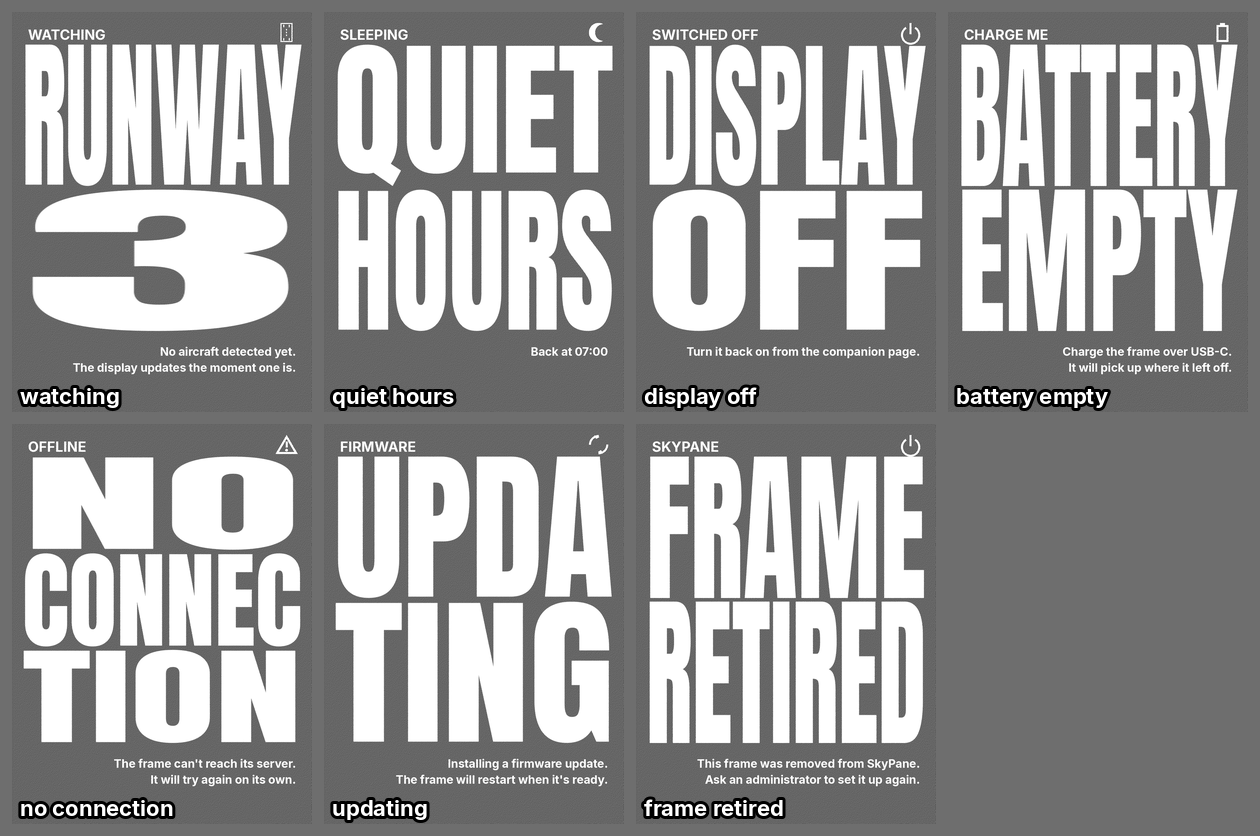
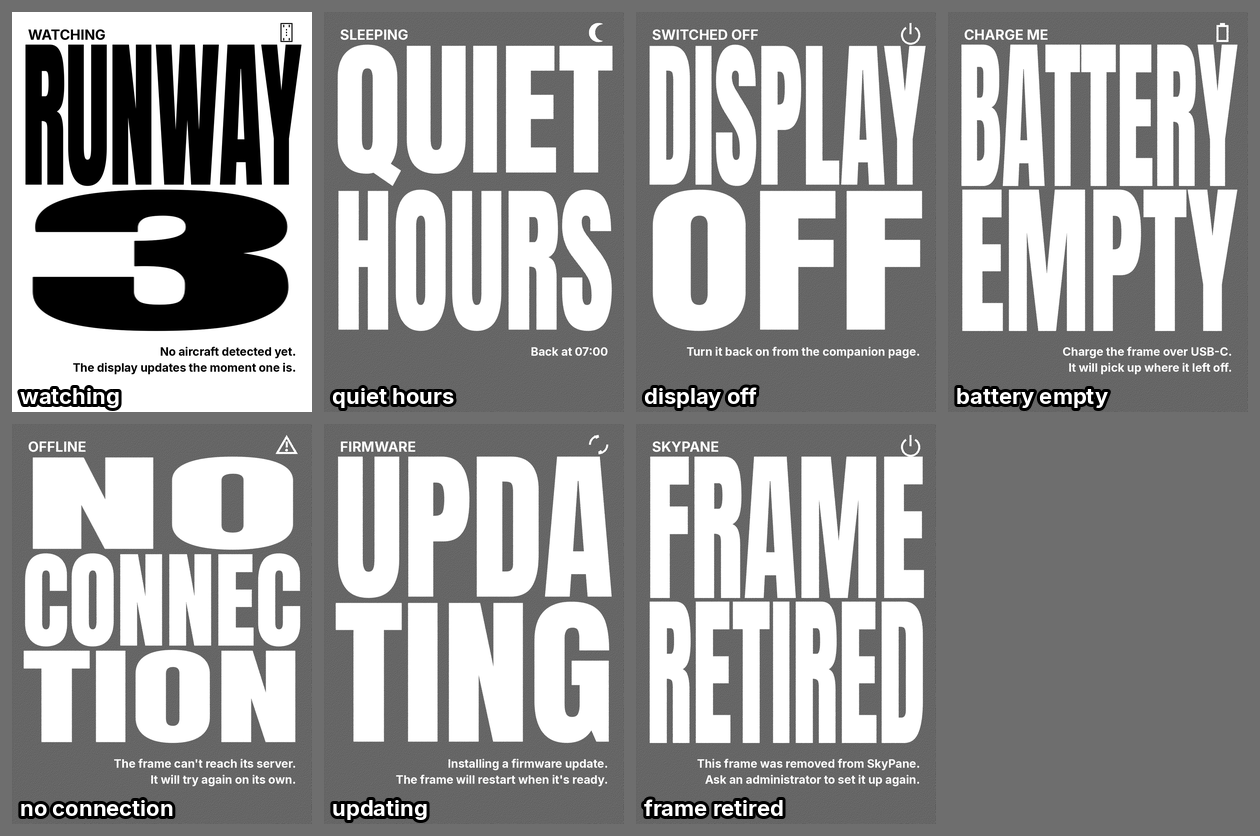
Mock-up: watching screen back to white, other status screens unchanged
Claude-Session: https://claude.ai/code/session_019w4bpjg26CtsBp1Ywmgh2a

Changed region(s): [[0.0, 0.0, 0.2476, 0.4976]]

diff --git a/design-exploration/plane-screen/mock_states.py b/design-exploration/plane-screen/mock_states.py
@@ -20,9 +20,9 @@ W, H = g.W, g.H
 WHITE = (255, 255, 255)
 
 # (key, lettering lines, small label, body lines, icon drawer)
-# Generic screens: they do not follow the theme and share one look: the
-# dimmed (dithered dark) field with white ink, as the non-watching screens
-# are today.
+# Generic screens: they do not follow the theme. As today, the watching screen
+# is white with black ink (the frame is working) and the others use the dimmed
+# (dithered dark) field with white ink (the frame is resting).
 STATES = [
     ("watching", ["RUNWAY", "3"], "WATCHING", ["No aircraft detected yet.", "The display updates the moment one is."], glyphs.draw_runway_icon),
     ("quiet hours", ["QUIET", "HOURS"], "SLEEPING", ["Back at 07:00"], glyphs.draw_moon_icon),
@@ -42,9 +42,9 @@ def icon_mask(drawer):
     return img.convert("L")
 
 
-def render(lines, label, body, drawer):
-    c = t.field(pf.IDX_BLACK, True).copy()
-    ink = WHITE
+def render(lines, label, body, drawer, watching=False):
+    c = Image.new("RGB", (W, H), WHITE) if watching else t.field(pf.IDX_BLACK, True).copy()
+    ink = (0, 0, 0) if watching else WHITE
     g.giant_text(c, lines, (40, 130, W - 40, 1290), ink, heavy=1)
     dr = ImageDraw.Draw(c)
     dr.text((64, 56), label, font=ImageFont.truetype(g.FONT, 56), fill=ink)
@@ -65,7 +65,7 @@ def main(out_dir, font_dir):
     label_font = ImageFont.truetype("server/assets/fonts/Inter-Bold.ttf", 22)
     sheet = Image.new("RGB", (4 * (tw + 12) + 12, 2 * (th + 12) + 12), (110, 110, 110))
     for i, (key, lines, label, body, drawer) in enumerate(STATES):
-        c = render(lines, label, body, drawer)
+        c = render(lines, label, body, drawer, watching=(key == "watching"))
         c.save(os.path.join(out_dir, "state-%s.png" % key.replace(" ", "_")))
         thumb = c.resize((tw, th), Image.LANCZOS)
         ImageDraw.Draw(thumb).text((8, th - 30), key, font=label_font, fill=(255, 255, 255), stroke_width=3, stroke_fill=(0, 0, 0))

diff --git a/.planning/notes/plane-screen-design-brief.md b/.planning/notes/plane-screen-design-brief.md
@@ -116,16 +116,15 @@ connection, updating, pairing, retired; `status-screens-current.png`) are all a
 tiny icon plus a small label and are unreadable from 3 m. Decided: every one
 except pairing (its code is typed from close up) gets the giant lettering, in
 Anton, with a short keyword split over lines (`status-screens-new.png`). These
-screens are generic: no diagonal band, no theme colours. All of them, watching
-included, share one look: the dithered dark field with white ink (today the
-watching screen is white, "the frame is working, not resting"; the reviewer
-preferred one consistent look). The small production icons stay, at the top
-right, and the watching screen shows the runway number as the giant text
-("RUNWAY / 3") with "WATCHING" as the small label.
-No connection and updating are drawn by the firmware from a mask generated by
-`_build_no_connection_canvas()` / `_build_updating_canvas()`; the masks and the
-firmware headers would have to be regenerated, and the lettering must stay
-exactly two colours. OVERHEAD, NEARBY and SET A LOCATION are tags on the flight
+screens are generic: no diagonal band, no theme colours, same colours as today
+(white field with black ink for watching, "the frame is working"; dithered dark
+field with white ink for the others, "the frame is resting"). The small
+production icons stay, at the top right, and the watching screen shows the
+runway number as the giant text ("RUNWAY / 3") with "WATCHING" as the small
+label. No connection and updating are drawn by the firmware from a mask
+generated by `_build_no_connection_canvas()` / `_build_updating_canvas()`; the
+masks and the firmware headers would have to be regenerated, and the lettering
+must stay exactly two colours. OVERHEAD, NEARBY and SET A LOCATION are tags on the flight
 screens and follow them.
 
 ### Departure vs arrival
